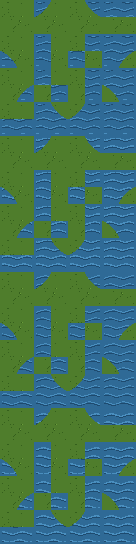
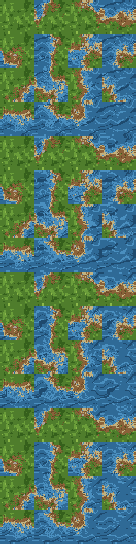
[TILES-SWAP-1] Swap in Batch 11 natural outdoor tiles
Replace 12 outdoor ground PNGs with Blendsmith Batch 11 package A (soft-edge natural style). tsj, ids, collides and maps are unchanged. Regenerate the Brackenford and wilderness screenshot baselines.

diff --git a/art-source/blendsmith/tiles/MANIFEST.md b/art-source/blendsmith/tiles/MANIFEST.md
@@ -1,5 +1,6 @@
 # AS-2 v4 manifest
 AS-2 v5 visual swap (approved by Grant 2026-11-09): 6 PNGs replaced, all metadata unchanged.
+TILES-SWAP-1 (Batch 11 natural outdoor tiles, package A, approved by Grant 2026-11-18): 12 outdoor ground PNGs replaced (ash_fill, ash_ground, bridge_plank, cliff, cliff_face, cobble_road, dirt_road, forest_floor, grass, water, water_ford, water_shore); tsj, ids, collides unchanged. Byte and SHA rows below are updated for rows that exist; ash_fill, ash_ground and forest_floor have no rows in this older table.
 
 LOCAL art scope complete; not game-integrated or approved.
 15 tilesets,222 tile IDs,20 logical props. No character asset changes.
@@ -7,21 +8,21 @@ LOCAL art scope complete; not game-integrated or approved.
 ## Ground / static cell anchors: top-left grid cell
 | Atlas | Image px | IDs | Unique art | Anim | PNG bytes | TSJ bytes |
 |---|---|---|---:|---|---:|---:|
-| ground/bridge_plank | 136x34 | 0..3 | 4 | none | 384 | 2572 |
-| ground/cliff | 136x136 | 0..15 | 16 | none | 2129 | 18139 |
-| ground/cliff_face | 136x34 | 0..3 | 4 | none | 528 | 2564 |
-| ground/cobble_road | 136x136 | 0..15 | 16 | none | 1922 | 18173 |
-| ground/dirt_road | 136x136 | 0..15 | 16 | none | 1757 | 18167 |
+| ground/bridge_plank | 136x34 | 0..3 | 4 | none | 1072 | 2572 |
+| ground/cliff | 136x136 | 0..15 | 16 | none | 7193 | 18139 |
+| ground/cliff_face | 136x34 | 0..3 | 4 | none | 2131 | 2564 |
+| ground/cobble_road | 136x136 | 0..15 | 16 | none | 6345 | 18173 |
+| ground/dirt_road | 136x136 | 0..15 | 16 | none | 6802 | 18167 |
 | ground/dungeon_floor | 102x68 | 0..5 | 6 | none | 1006 | 3288 |
 | ground/dungeon_wall | 136x34 | 0..3 | 4 | none | 292 | 2568 |
-| ground/grass | 136x68 | 0..7 | 8 | none | 1227 | 3986 |
+| ground/grass | 136x68 | 0..7 | 8 | none | 2982 | 3986 |
 | ground/interior_market_floor | 136x34 | 0..3 | 4 | none | 584 | 2590 |
 | ground/interior_market_wall | 136x34 | 0..3 | 4 | none | 443 | 2584 |
 | ground/interior_tavern_floor | 136x34 | 0..3 | 4 | none | 526 | 2590 |
 | ground/interior_tavern_wall | 136x34 | 0..3 | 4 | none | 405 | 2584 |
-| ground/water | 136x544 | 0..63 | 61 | wet1..15:4x160ms | 8280 | 62939 |
-| ground/water_ford | 136x34 | 0..3 | 4 | none | 1170 | 2568 |
-| ground/water_shore | 136x544 | 0..63 | 61 | wet1..15:4x160ms | 8206 | 62957 |
+| ground/water | 136x544 | 0..63 | 61 | wet1..15:4x160ms | 35581 | 62939 |
+| ground/water_ford | 136x34 | 0..3 | 4 | none | 1802 | 2568 |
+| ground/water_shore | 136x544 | 0..63 | 61 | wet1..15:4x160ms | 31774 | 62957 |
 
 ## Prop atlases
 | Atlas | Image px | Frames | Origin | Anims | PNG bytes | JSON bytes |
@@ -62,21 +63,21 @@ MANIFEST.md itself excluded to avoid self-reference.
 | README.md | 5106 | 35bffe0a8f20549b54b69580ce75b9d6c24094986893cea648b3e268c83ebcc0 |
 | SHOT_LIST.md | 1960 | 70ffa6d651a4c542fa34de6402ef5af73f10c906f4f0384f62b638b32eb6e620 |
 | SOURCE_PROVENANCE.json | 160051 | ab24ca7c7ea6273d87d3bbfaea9b6df13e80ff1f68f166893cb9021e7becfa4f |
-| ground/bridge_plank.png | 384 | e63cb928c00a6f9f577d14406e5b7dd365d7d5222a83a703a5ec80a00aa454d4 |
+| ground/bridge_plank.png | 1072 | a2f7b5bbdadb2527fd09bebc4a121c28b261dd5a49b79d99b0a116c7b1ade709 |
 | ground/bridge_plank.tsj | 2572 | 59c05a95882be003a7cebffe52875a6a99a992fd29495ace8d169640a0299cae |
-| ground/cliff.png | 2129 | 936db39d7c5065de206ee0c3cee157031388b731df9a26adc7fcb2570115f49c |
+| ground/cliff.png | 7193 | ad3537080c5a5164f3f69e139ccf0775251476f470e2a1fa8801bd8f25188082 |
 | ground/cliff.tsj | 18139 | 8952e11c8d6846af6a9fbdc65c801d92381ff9481ab6bdf8bb27118fa53a46f3 |
-| ground/cliff_face.png | 528 | 8ace6225d68ea69928dec9d37f80a1eba85806dea626a118d98b95a40ab8c1ef |
+| ground/cliff_face.png | 2131 | c8d670ecc0c20860b0b7a118d4c76f114d1dab87138af500c2875becd9710ca3 |
 | ground/cliff_face.tsj | 2564 | 7832be09a0122b560067f72eb335b4cd74b199cea53f9550a15548cff51a2f7d |
-| ground/cobble_road.png | 1922 | c1244fc8e3bcc0e8142f1157ef6fc1aba2354c28275b226755e1d3f056d46ea7 |
+| ground/cobble_road.png | 6345 | 589facf18909378c2888a3dc5c9dc40e12674c3e57f6d328fb51188c23ed1b50 |
 | ground/cobble_road.tsj | 18173 | e14764c031496a906bd78aa968b5cd841d55af05ddcbb74f425d0ac8389ec21b |
-| ground/dirt_road.png | 1757 | 5ae57b29928562f2277fa2dcd6368248f8e3e920dc97b3208606e5b49ea2553e |
+| ground/dirt_road.png | 6802 | 0be0d591b69732e5167feb6463b72cd9c386079370946ee5ab42d051f8bcd719 |
 | ground/dirt_road.tsj | 18167 | ef037d5b6ad5b3001dfc242882df4d055ede67084aa6e82dd61eff0236e91abf |
 | ground/dungeon_floor.png | 1006 | b792ec95e4b99e1cde20642cea16eb6d2df6b1537de47f7b2f74dafd5c99eded |
 | ground/dungeon_floor.tsj | 3288 | aa685e7ebbb469bab852b00107efd0877ba41e4fe46d41d3f25e7aae44212a35 |
 | ground/dungeon_wall.png | 292 | b0e3a4a4705fe945dbdc21c08ba8829d8ff1242cabb73679ee8d3550906bd1ca |
 | ground/dungeon_wall.tsj | 2568 | 4358a559afc8271dddc85412e08bf479b77780f2031976b9ec5cb36102259132 |
-| ground/grass.png | 1227 | a9de1f1861dedf3b4e50d441826213b15492f8496a250df0b24380828084fed6 |
+| ground/grass.png | 2982 | 73a8f6ba400593271c6e3e5ef765a52406f283d44ea62247ee060ce699f23c64 |
 | ground/grass.tsj | 3986 | 6629ad7f81cec7c4534d15c70c0e226b6fbad71d74c923ad71ae03f773faddbb |
 | ground/interior_market_floor.png | 584 | 014905f5d28d87af37750c98b61d91f6934a0cf4ccf61340be51da887e07292d |
 | ground/interior_market_floor.tsj | 2590 | 2ec7162023ed2f4f024b4cd63887e0e713a1feb3eeefb7d7ff913bbfb4bea16d |
@@ -86,11 +87,11 @@ MANIFEST.md itself excluded to avoid self-reference.
 | ground/interior_tavern_floor.tsj | 2590 | f444ba46e5949594527ef0662187de8883d2351a84f7aeb461be5790c03ecb28 |
 | ground/interior_tavern_wall.png | 405 | f2a4c163edabc3b9190cd7be525eaee9d563533d8ff0fed5f81de16227120fa3 |
 | ground/interior_tavern_wall.tsj | 2584 | c14124dcde7e0a22875563a4e0179f2385d21c1f5fab904c650e72440109d23f |
-| ground/water.png | 8280 | d9f286d1b44220e87129d61ec5ed677460539ce5aeaad5a6fbb463dc94e8dfe4 |
+| ground/water.png | 35581 | 3362cf01ebead6679a306a0f48db2349f0ee1ca0e10dd63c0263bb5ea4727fb6 |
 | ground/water.tsj | 62939 | 5924788df478fa33b2a623575f7e945bbf28d509eaceaf9a4d2bdcc1c45b91a7 |
-| ground/water_ford.png | 1170 | 2ffb60f96ab1e146236d15fd7a7ad35ac7a607e201b1829f776c335cefb4409e |
+| ground/water_ford.png | 1802 | 9207904b4015c81e3826b6dc244b3d004db9cf89ae214de9cfc7b846e935f84a |
 | ground/water_ford.tsj | 2568 | 1b79c80d8670b09660a661f9c2dc4bb672dc30d4316f85ba6ed7c39544cc66ea |
-| ground/water_shore.png | 8206 | c840cd52d6a8b08449dbfc1723ddb31357609b87a3bb89c41b1bec6fa5de8482 |
+| ground/water_shore.png | 31774 | 33bd1fa723a526c2e171fdcae52f4f91bf8e2cd2e48c4acf127cbb28587445bb |
 | ground/water_shore.tsj | 62957 | 6d587d9304355c260edaf86cc8e0714a6bafae886c8fc0cb6df85b1862f2c5cd |
 | palette.json | 1220 | de92a9af68b25252456eb70916de00e28c7f43e99ec244f12c9e308d54721280 |
 | props/PAIRING.md | 540 | ed715ccf43aea0a616f335902773e209696756cb4a86c8e3a17f3e070863cf30 |
